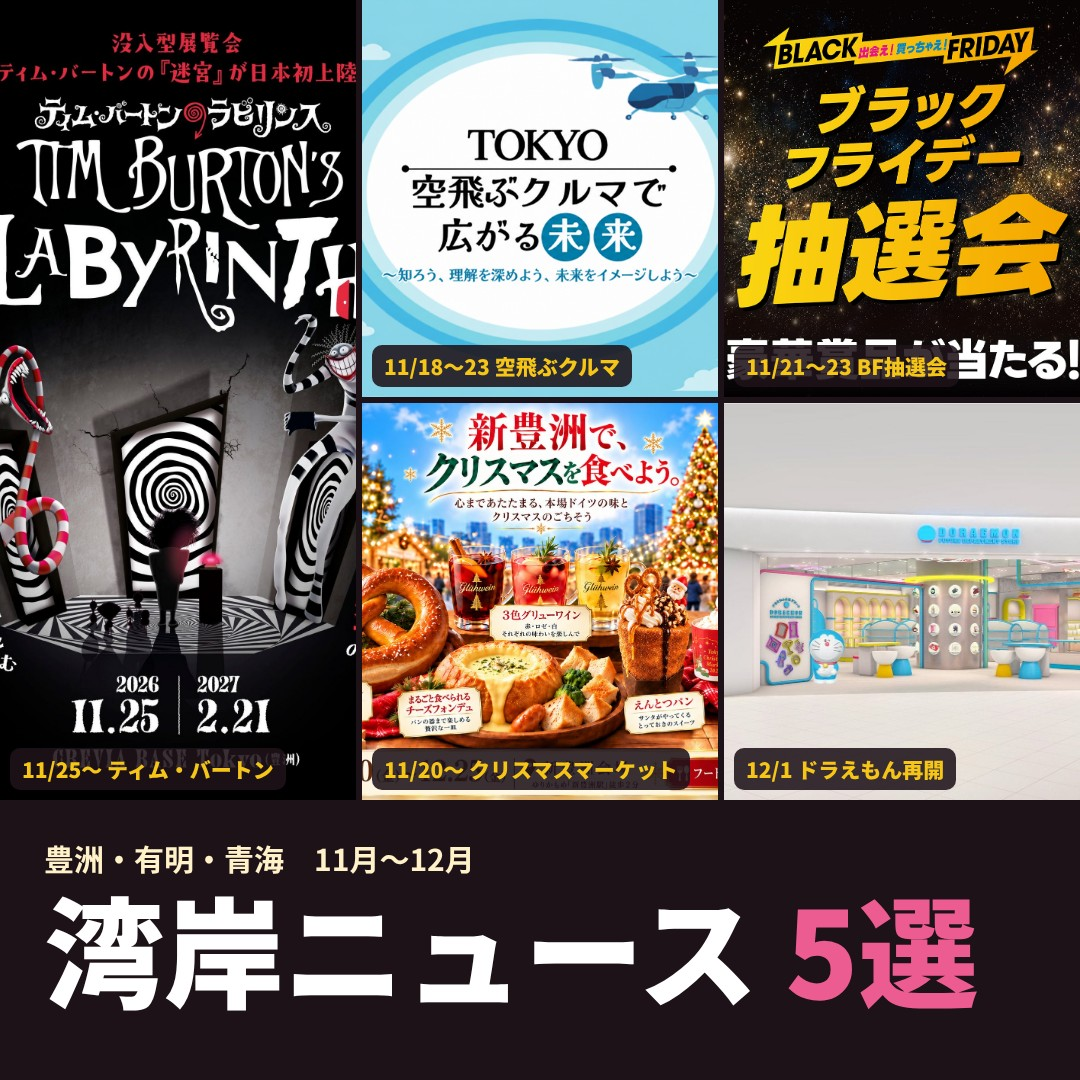
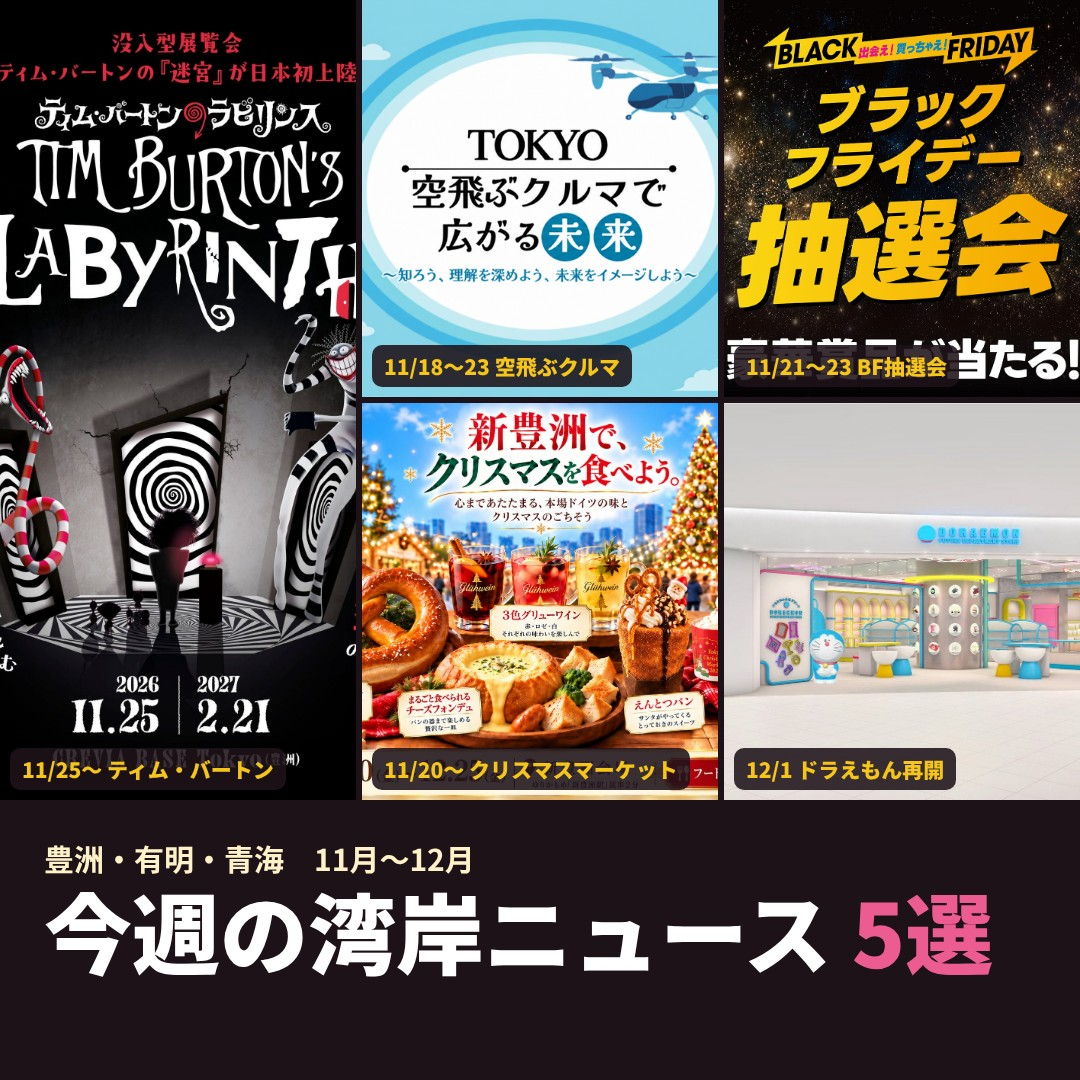
湾岸ニュース5選: レビューに対応（公式リンク・「今週の」・画像を 2 枚に）・見送りの印を写す
Claude-Session: https://claude.ai/code/session_01H2JQqdMCeKNiMVUTrAyX2t

Changed region(s): [[0.0306, 0.825, 0.9167, 0.9472]]

diff --git a/scripts/image-review/page.html b/scripts/image-review/page.html
@@ -590,12 +590,10 @@
     {
       // **未投稿**（2026-11-03・目的: news）。利用者「湾岸ニュースまとめ5選みたいな感じで直近のニュースをまとめて投稿ドラフト作って／画像をうまく正方形で組み合わせて／ブログの紹介を2投稿目のスレッドで」
       key: "news-wangan-5", title: "湾岸ニュース5選（空飛ぶクルマ・クリスマスマーケット・BF・ティム・バートン・ドラえもん）", slug: "x-wangan-news-5",
-      attach: "[1/2]（4枚）",
+      attach: "[1/2]（2枚）",
       images: [
-        { file: "1-cover.jpg", name: "1枚目", cap: "表紙（5件の公式画像）" },
-        { file: "2-ariake-lalaport.jpg", name: "2枚目", cap: "空飛ぶクルマ・ブラックフライデー" },
-        { file: "3-timburton-doraemon.jpg", name: "3枚目", cap: "ティム・バートン・ドラえもん" },
-        { file: "4-xmas-calendar.jpg", name: "4枚目", cap: "クリスマスマーケット・日付の一覧" }
+        { file: "1-cover.jpg", name: "1枚目", cap: "表紙（今週の湾岸ニュース 5選）" },
+        { file: "2-list.jpg", name: "2枚目", cap: "5件を日付順に一覧" }
       ]
     },
     {

diff --git a/docs/session-handoff.md b/docs/session-handoff.md
@@ -68,6 +68,12 @@
 
 <!-- 新しい記録がこの下に追加される（新しいものが上） -->
 
+### 2026-11-03 — 湾岸ニュース5選: レビュー 4 件に対応（利用者の文面を取り込み、①〜⑤に公式リンク、表紙の見出しを「今週の湾岸ニュース 5選」、画像を表紙＋一覧の 2 枚に）。ページの見送り 9 組を set-status に写した
+
+次のアクション:
+
+- [ ] 利用者の確認を待つ（投稿は「投稿して」をもらってから）
+
 ### 2026-11-03 — 湾岸ニュース5選の下書き（news-wangan-5・[1/2] 長文＋画像 4 枚・[2/2] 湾岸イベントマップの紹介）を作ってレビューページに出した
 
 次のアクション:
